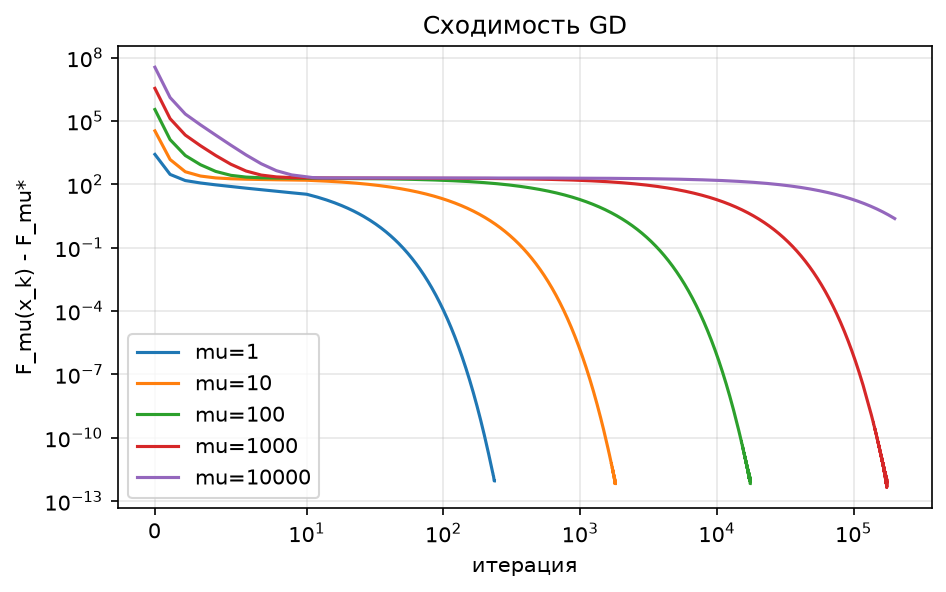
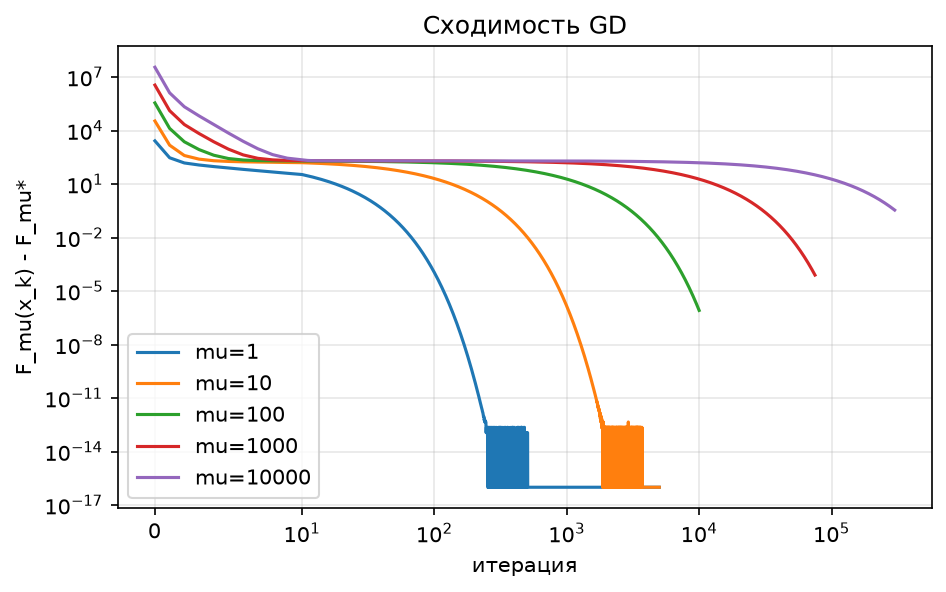
Исправление числа итераций GD

diff --git a/scripts/metrics_report.py b/scripts/metrics_report.py
@@ -7,7 +7,9 @@
   * cond(H)      - число обусловленности гессиана F_mu в точке x*_mu;
   * ||Ax - r||   - невязка ограничений;
   * f - f*       - разность ИСХОДНОЙ стоимости (без штрафа) и эталона f*;
-  * итерации GD  - число шагов до ||grad F_mu|| <= tol;
+  * итерации GD  - число шагов GD (шаг 1/L, старт x=0) по двум критериям:
+        gap  : F_mu(x_k) - F_mu* <= eps        (как в exp_conditioning.py, пункт 6)
+        grad : ||grad F_mu|| <= tol*||grad F_mu(x0)||   (как в compare_adaptive.py, пункт 7);
   * min x        - насколько нарушено x >= 0.
 Эталон f* - scipy (SLSQP), sanity check - LP (scipy.linprog) и, если
 установлен, cvxpy. Таблица -> figures/metrics_table.csv, графики -> figures/.
@@ -25,7 +27,7 @@ from scipy.optimize import linprog
 from methods.gd import GD
 from oracles.transport import TransportOracle
 from scripts.check_penalty import constraint_matrix, newton_solve, reference_solution
-from utils.metrics import condition_number, iterations_to_tol
+from utils.metrics import condition_number
 
 OUT = "figures"
 
@@ -35,15 +37,35 @@ def f_orig(o, x):
     return float(o.a.ravel() @ x + 0.5 * np.sum(o.b.ravel() * x**2))
 
 
-def reference(o):
-    """f* через SLSQP + sanity check через LP (и cvxpy, если есть)."""
+def exact_equality_qp(o):
+    """Точное решение задачи при Ax = r (без x >= 0) из системы KKT:
+        diag(b) x + A^T lam = -a,   A x = r.
+    Если все x_ij >= 0, это и есть решение исходной задачи (x >= 0 не активно).
+    """
     A, r = constraint_matrix(o.m, o.n), np.concatenate([o.s, o.d])
-    x_ref, f_ref = reference_solution(o)
+    k = A.shape[0]
+    K = np.block([[np.diag(o.b.ravel()), A.T], [A, np.zeros((k, k))]])
+    rhs = np.concatenate([-o.a.ravel(), r])
+    x = np.linalg.lstsq(K, rhs, rcond=None)[0][:o.dim]   # A неполного ранга -> lstsq
+    return x
+
+
+def reference(o):
+    """f* точно (KKT), SLSQP как перекрёстная проверка, LP как нижняя граница."""
+    A, r = constraint_matrix(o.m, o.n), np.concatenate([o.s, o.d])
+    x_slsqp, f_slsqp = reference_solution(o)
+    x_ref = exact_equality_qp(o)
+    if x_ref.min() < -1e-9:           # x >= 0 активно -> KKT неприменим, берём SLSQP
+        x_ref, f_ref = x_slsqp, f_slsqp
+    else:
+        f_ref = f_orig(o, x_ref)
     # LP с b=0: нижняя граница, т.к. b >= 0  =>  f_LP* <= f*
     lp = linprog(o.a.ravel(), A_eq=A, b_eq=r, bounds=(0, None), method="highs")
-    info = {"f_slsqp": f_ref, "f_lp_lower": lp.fun,
-            "viol_slsqp": float(np.abs(A @ x_ref - r).max()),
-            "min_x_slsqp": float(x_ref.min())}
+    info = {"f_exact": f_ref, "f_slsqp": f_slsqp,
+            "slsqp_error": float(f_slsqp - f_ref),     # у SLSQP может быть недосходимость
+            "f_lp_lower": lp.fun,
+            "viol_exact": float(np.abs(A @ x_ref - r).max()),
+            "min_x_exact": float(x_ref.min())}
     try:
         import cvxpy as cp
         x = cp.Variable(o.dim)
@@ -57,7 +79,35 @@ def reference(o):
     return x_ref, f_ref, info
 
 
-def run(m, n, seed, mus, tol, max_iter):
+def gd_iterations(o, F_star, eps_gap, rel_tol, max_iter, chunk=5000):
+    """Один прогон GD (шаг 1/L, x0 = 0), число итераций по двум критериям.
+
+    gap : первая итерация с F(x_k) - F_star <= eps_gap
+    grad: первая итерация с ||grad F(x_k)|| <= rel_tol * ||grad F(x_0)||
+    Идём кусками по chunk итераций и останавливаемся, когда достигнуты оба.
+    Возвращает (it_gap, it_grad, f_history, x_last); None = критерий не достигнут.
+    """
+    x = np.zeros(o.dim)
+    tol_abs = rel_tol * float(np.linalg.norm(o.grad(x)))
+    f_all, g_all, total = [], [], 0
+    it_gap = it_grad = None
+    while total < max_iter and (it_gap is None or it_grad is None):
+        n = min(chunk, max_iter - total)
+        h = GD(o, max_iter=n, tol=0.0).run(x)           # tol=0: не останавливаться раньше
+        start = 0 if total == 0 else 1                  # индекс 0 куска = последняя точка прошлого
+        f_all += h.f[start:]
+        g_all += h.grad_norm[start:]
+        x, total = h.x[-1], total + n
+        if it_gap is None:
+            hit = np.flatnonzero(np.array(f_all) - F_star <= eps_gap)
+            it_gap = int(hit[0]) if hit.size else None
+        if it_grad is None:
+            hit = np.flatnonzero(np.array(g_all) <= tol_abs)
+            it_grad = int(hit[0]) if hit.size else None
+    return it_gap, it_grad, f_all, x
+
+
+def run(m, n, seed, mus, tol, eps_gap, max_iter):
     A = constraint_matrix(m, n)
     o0 = TransportOracle(m, n, seed, mu=1.0)
     r = np.concatenate([o0.s, o0.d])
@@ -68,26 +118,28 @@ def run(m, n, seed, mus, tol, max_iter):
         o = TransportOracle(m, n, seed, mu=mu)
         x_mu = newton_solve(o, np.zeros(o.dim))            # точный минимум F_mu
         F_mu_star = o.f(x_mu)
-        h = GD(o, max_iter=max_iter, tol=tol).run(np.zeros(o.dim))  # шаг 1/L
-        it = iterations_to_tol(h, tol)
-        x_end = h.x[-1]
+        it_gap, it_grad, f_hist, x_end = gd_iterations(o, F_mu_star, eps_gap, tol, max_iter)
+        fmt = lambda it: it if it is not None else f">{max_iter}"
         rows.append({
             "mu": mu,
             "cond_H": condition_number(o, x_mu),
             "residual": float(np.linalg.norm(A @ x_mu - r)),
             "f_minus_fstar": f_orig(o, x_mu) - f_star,
             "min_x": float(x_mu.min()),
-            "gd_iters": it if it is not None else f">{max_iter}",
-            "gd_converged": it is not None,
+            "gd_iters_gap": fmt(it_gap),
+            "gd_iters_grad": fmt(it_grad),
+            "gd_converged_gap": it_gap is not None,
+            "gd_converged_grad": it_grad is not None,
             "gd_residual_final": float(np.linalg.norm(A @ x_end - r)),
         })
-        hists[mu] = np.array(h.f) - F_mu_star
+        hists[mu] = np.array(f_hist) - F_mu_star
         print(f"mu={mu:8g} cond={rows[-1]['cond_H']:.2e} res={rows[-1]['residual']:.2e} "
-              f"f-f*={rows[-1]['f_minus_fstar']:+.2e} GD iters={rows[-1]['gd_iters']}")
+              f"f-f*={rows[-1]['f_minus_fstar']:+.2e} "
+              f"GD iters: gap={rows[-1]['gd_iters_gap']} grad={rows[-1]['gd_iters_grad']}")
     return f_star, ref_info, rows, hists
 
 
-def make_plots(rows, hists, tag):
+def make_plots(rows, hists, tag, crit="gap"):
     os.makedirs(OUT, exist_ok=True)
     mus = [r["mu"] for r in rows]
 
@@ -105,11 +157,11 @@ def make_plots(rows, hists, tag):
     fig.savefig(f"{OUT}/quality_vs_mu_{tag}.png", dpi=150, bbox_inches="tight"); plt.close(fig)
 
     fig, ax = plt.subplots(figsize=(6, 4))
-    ax.loglog(mus, [r["gd_iters"] if r["gd_converged"] else np.nan for r in rows], "o-")
+    ax.loglog(mus, [r[f"gd_iters_{crit}"] if r[f"gd_converged_{crit}"] else np.nan for r in rows], "o-")
     for r in rows:
-        if not r["gd_converged"]:
+        if not r[f"gd_converged_{crit}"]:
             ax.annotate("не сошёлся", (r["mu"], 1), color="red", fontsize=8)
-    ax.set_xlabel("mu"); ax.set_ylabel("итераций GD до ||grad||<=tol")
+    ax.set_xlabel("mu"); ax.set_ylabel("итераций GD: F-F* <= eps" if crit == "gap" else "итераций GD: ||grad|| <= tol*||grad(x0)||")
     ax.grid(True, which="both", alpha=.3); ax.set_title("Число итераций GD (шаг 1/L)")
     fig.savefig(f"{OUT}/iters_vs_mu_{tag}.png", dpi=150, bbox_inches="tight"); plt.close(fig)
 
@@ -127,18 +179,20 @@ if __name__ == "__main__":
     p.add_argument("--m", type=int, default=3)
     p.add_argument("--n", type=int, default=3)
     p.add_argument("--seed", type=int, default=42)
-    p.add_argument("--tol", type=float, default=1e-6)
-    p.add_argument("--max-iter", type=int, default=200000)
+    p.add_argument("--tol", type=float, default=1e-6)        # критерий grad: ||grad|| <= tol*||grad(x0)||
+    p.add_argument("--eps-gap", type=float, default=1e-4)    # критерий gap: F_mu(x_k) - F_mu* <= eps
+    p.add_argument("--criterion", choices=["gap", "grad"], default="gap")  # что рисовать на графике итераций
+    p.add_argument("--max-iter", type=int, default=300000)   # предел итераций GD
     a = p.parse_args()
 
     mus = [1, 10, 100, 1e3, 1e4]
-    f_star, info, rows, hists = run(a.m, a.n, a.seed, mus, a.tol, a.max_iter)
-    print(f"\nf* (SLSQP) = {f_star:.8f}; sanity: {info}")
+    f_star, info, rows, hists = run(a.m, a.n, a.seed, mus, a.tol, a.eps_gap, a.max_iter)
+    print(f"\nf* (точное, KKT) = {f_star:.8f}; проверки: {info}")
 
     tag = f"m{a.m}n{a.n}s{a.seed}"
     os.makedirs(OUT, exist_ok=True)
     with open(f"{OUT}/metrics_table_{tag}.csv", "w", newline="") as fh:
         w = csv.DictWriter(fh, fieldnames=list(rows[0]))
         w.writeheader(); w.writerows(rows)
-    make_plots(rows, hists, tag)
+    make_plots(rows, hists, tag, a.criterion)
     print(f"Таблица и графики сохранены в {OUT}/")
